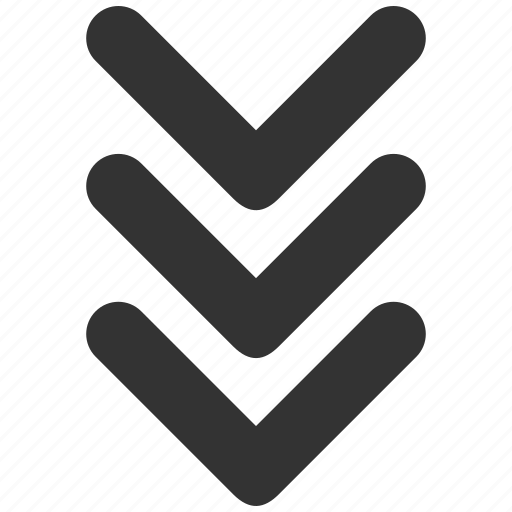
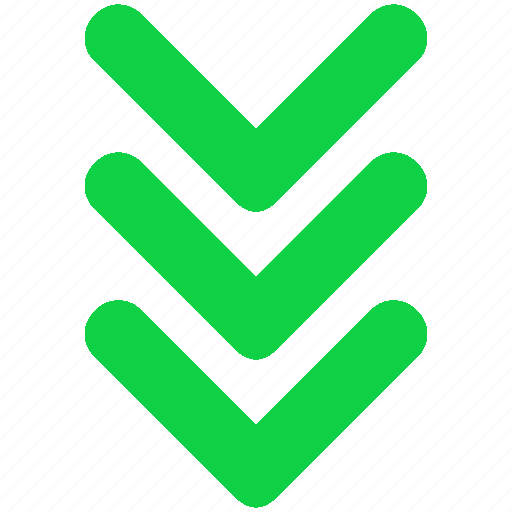
nedoverpiler oppdatert

diff --git a/index.html b/index.html
@@ -79,7 +79,7 @@
         <div class="div-arrows">
             <div class="arrow-box">
                 <a class="a-arrows" href="#arrowHref">
-                    <img class="arrows" src="Resources/images/downarrows.png" alt="Scroll down">
+                    <img class="arrows" src="Resources/images/580b57fcd9996e24bc43c43d.png" alt="Scroll down">
                 </a>
             </div>
         </div>

diff --git a/Resources/stylesheets/index.css b/Resources/stylesheets/index.css
@@ -242,7 +242,7 @@ html {
 
 .arrows {
     height: 80px;
-    width: 50px;
+    width: 30px;
 }
 
 .scrolling {
